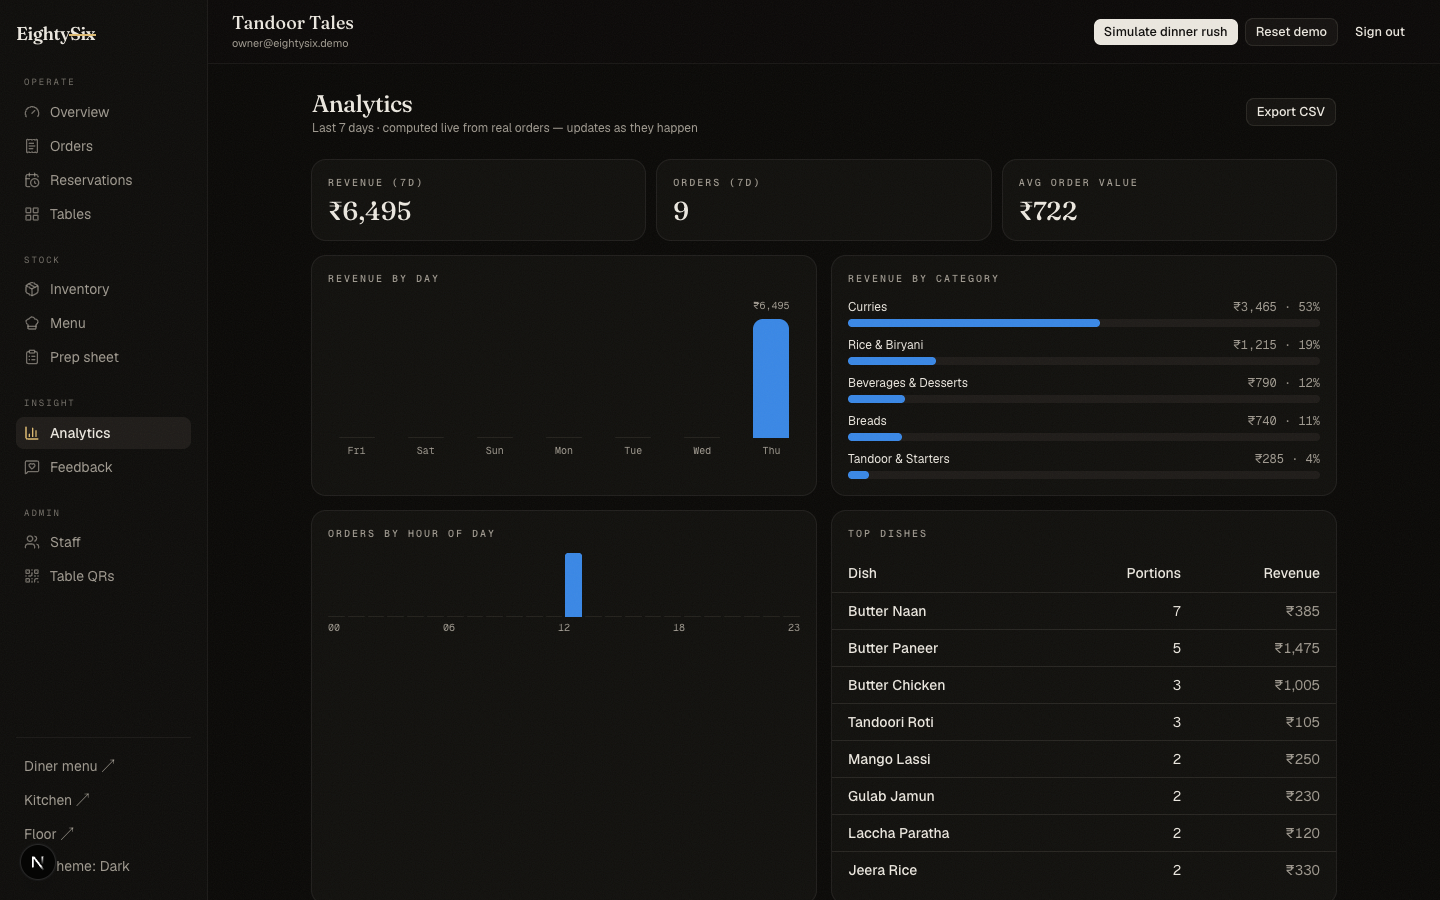
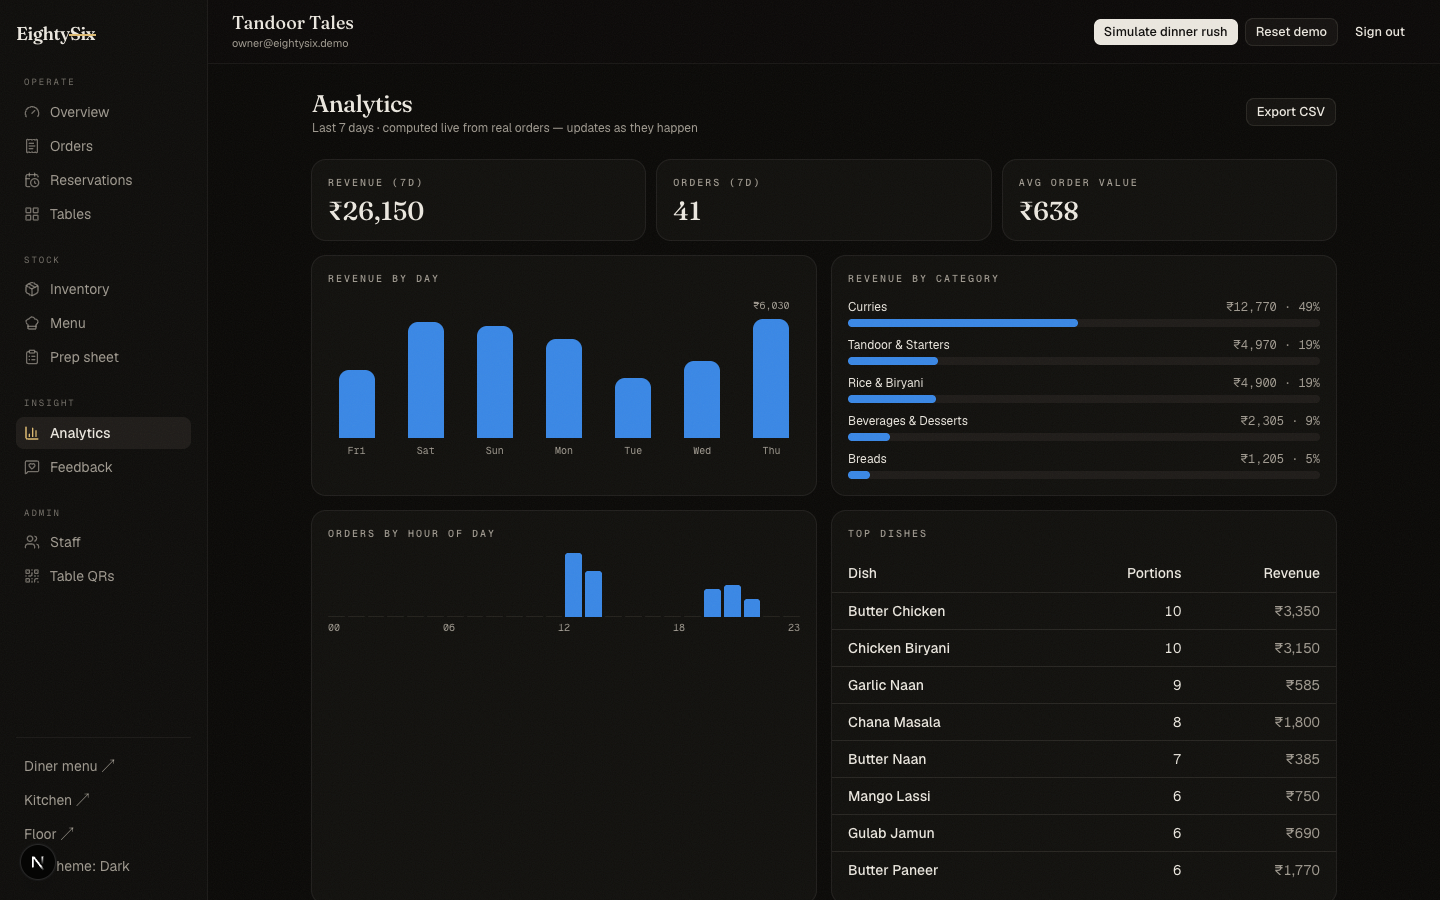
Update screenshots and documentation

diff --git a/README.md b/README.md
@@ -102,17 +102,9 @@ When an ingredient dies mid-service, the kitchen finds out first, waiters find o
 | :---: | :---: |
 | ![Orders board](screenshots/orders-board.png) | ![Menu management](screenshots/menu-manage.png) |
 
-<div align="center">
-
-| 7-Day Analytics + CSV Export |
-| :---: |
-| ![Analytics](screenshots/analytics.png) |
-
-| Diner Menu (Mobile — QR Entry, Chef's Special) |
-| :---: |
-| <img src="screenshots/menu-mobile.png" alt="Diner menu on mobile" width="360" /> |
-
-</div>
+| 7-Day Analytics + CSV Export | Diner Menu — QR Entry, Chef's Special |
+| :---: | :---: |
+| ![Analytics](screenshots/analytics.png) | ![Diner menu](screenshots/menu-diner.png) |
 
 ## 🏗 Architecture
 
@@ -269,7 +261,7 @@ eightysix/
 │   │   ├── demo.ts                # One-click evaluator accounts
 │   │   └── supabase/              # Browser / server / admin (service-role) clients
 │   └── proxy.ts                   # Session refresh + route guards
-├── supabase/migrations/           # ⚙ THE ENGINE — 001 → 006, pure SQL
+├── supabase/migrations/           # ⚙ THE ENGINE — 001 → 007, pure SQL
 ├── scripts/                       # Demo-account bootstrap (idempotent)
 ├── screenshots/                   # README screenshots
 ├── docs/                          # 📚 Deep-dive documentation
@@ -329,7 +321,7 @@ cp .env.example .env.local   # Supabase URL, anon key, service-role key, Gemini 
 npm run dev
 ```
 
-Run `supabase/migrations/` **001 → 006** in the Supabase SQL editor, in order. `001` creates the schema, engine and demo seed; `005` adds reservations + feedback; `006` adds the waiter role, service calls, chef's specials and price snapshots. Then `node scripts/bootstrap-demo-accounts.mjs` creates the three one-click demo accounts.
+Run `supabase/migrations/` **001 → 007** in the Supabase SQL editor, in order. `001` creates the schema, engine and demo seed; `005` adds reservations + feedback; `006` adds the waiter role, service calls, chef's specials and price snapshots; `007` seeds a week of order history on every reset. Then `node scripts/bootstrap-demo-accounts.mjs` creates the three one-click demo accounts.
 
 📖 Step-by-step provisioning + Vercel deployment: **[docs/SETUP.md](docs/SETUP.md)**
 
@@ -344,7 +336,5 @@ This project is licensed under the **MIT License** — see [LICENSE](LICENSE).
 *Next.js 16 · Tailwind v4 + shadcn/ui · Supabase · Gemini · Vercel*
 
 **One engine, four surfaces, a menu that can't lie.**
-
-⭐ **If EightySix caught the 86 before you did, star the repo!** ⭐
 
 </div>

diff --git a/docs/SETUP.md b/docs/SETUP.md
@@ -42,7 +42,7 @@ cp .env.example .env.local
 
 ## 4. Migrations & Run
 
-Open the **SQL Editor** in Supabase and run the six files from [`supabase/migrations/`](../supabase/migrations/) **in order** — `001_init.sql` through `006_floor.sql`. Each file is idempotent (safe to re-run); `001` seeds the demo restaurant (*Tandoor Tales*: 32 ingredients, 28 dishes, the full recipe graph, 10 tables); `006` adds the waiter role, service calls, chef's specials and unit-price snapshots. What each file creates: [ARCHITECTURE.md](ARCHITECTURE.md#the-engine--pure-sql).
+Open the **SQL Editor** in Supabase and run the seven files from [`supabase/migrations/`](../supabase/migrations/) **in order** — `001_init.sql` through `007_history.sql`. Each file is idempotent (safe to re-run); `001` seeds the demo restaurant (*Tandoor Tales*: 32 ingredients, 28 dishes, the full recipe graph, 10 tables); `006` adds the waiter role, service calls, chef's specials and unit-price snapshots; `007` makes every reset seed six days of order history so analytics and forecasts are populated. What each file creates: [ARCHITECTURE.md](ARCHITECTURE.md#the-engine--pure-sql).
 
 Then create the three one-click demo accounts (idempotent, uses `.env.local`):
 
@@ -72,7 +72,7 @@ Three ways, all safe — `reset_demo()` keeps every ID stable, so logins, printe
 
 | Symptom | Fix |
 |---|---|
-| `demo restaurant missing — run 001_init.sql first` | Migrations ran out of order — run `001`, then 002–006 |
+| `demo restaurant missing — run 001_init.sql first` | Migrations ran out of order — run `001`, then 002–007 |
 | Screens don't update live | Realtime publication missing — re-run `001`, `005` and `006` (they add tables to `supabase_realtime`) |
 | Demo login buttons fail | Demo accounts not provisioned — run `node scripts/bootstrap-demo-accounts.mjs` |
 | OAuth/email link lands on `localhost` in prod | Add the production URL in Supabase Auth URL Configuration |

diff --git a/docs/ARCHITECTURE.md b/docs/ARCHITECTURE.md
@@ -76,7 +76,8 @@ The heart of the product lives in [`supabase/migrations/`](../supabase/migration
 | `003_intelligence.sql` | `dish_risk` view, `prep_sheet()` forecaster |
 | `004_reset.sql` | Stable-ID `reset_demo()` — clears history without killing logins/QRs/channels |
 | `005_hospitality.sql` | Reservations, feedback, updated `reset_demo()` |
-| `006_floor.sql` | Waiter role, `service_calls` (diner → floor pings), chef's specials (`regular_price` / `special_note` / `special_until` on dishes), `ingredient_surplus` view, `unit_price` snapshot trigger on `order_items`, radar edge-case fixes (`greatest(1, …)` ETA, `greatest(0, …)` portions), final `reset_demo()` |
+| `006_floor.sql` | Waiter role, `service_calls` (diner → floor pings), chef's specials (`regular_price` / `special_note` / `special_until` on dishes), `ingredient_surplus` view, `unit_price` snapshot trigger on `order_items`, radar edge-case fixes (`greatest(1, …)` ETA, `greatest(0, …)` portions) |
+| `007_history.sql` | `seed_order_history()` — every reset seeds ~35 paid orders across the prior six IST days (depletion triggers suspended, so live stock stays at seed values) — plus the final `reset_demo()` |
 
 ### The ledger and its triggers
 
